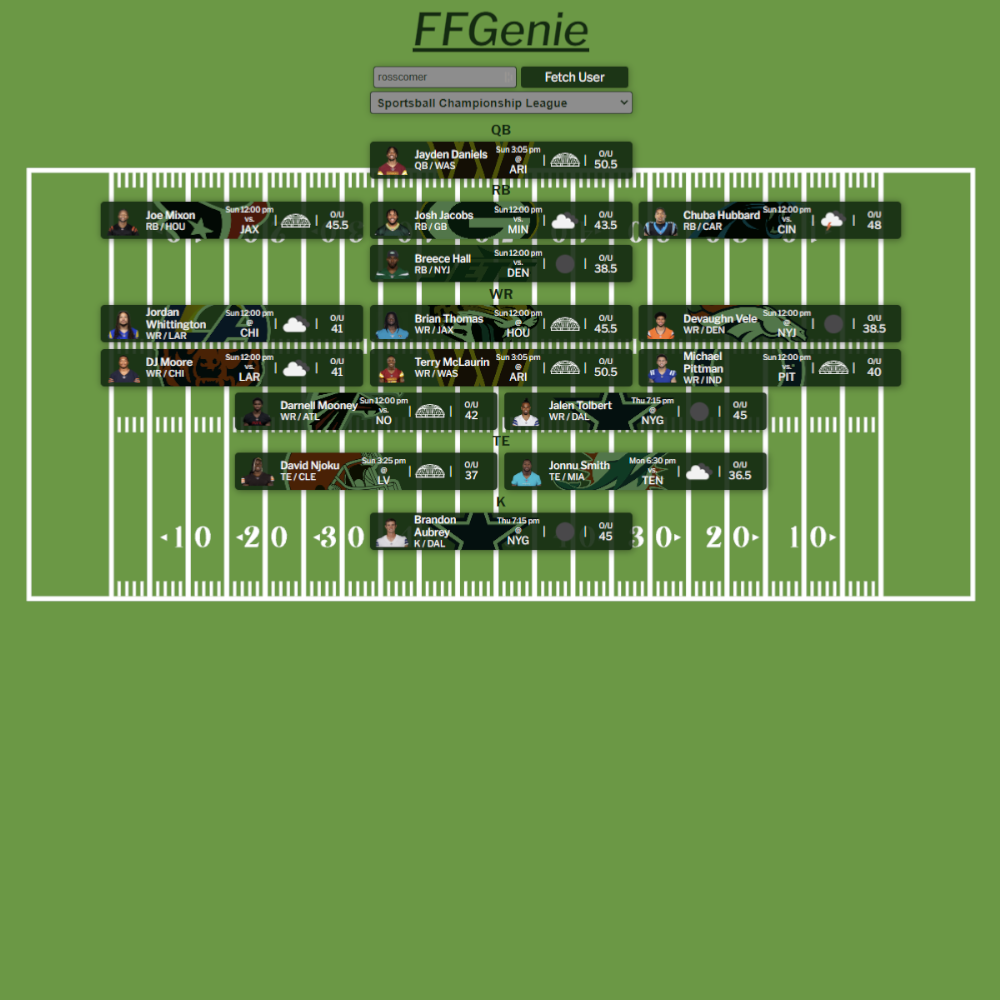
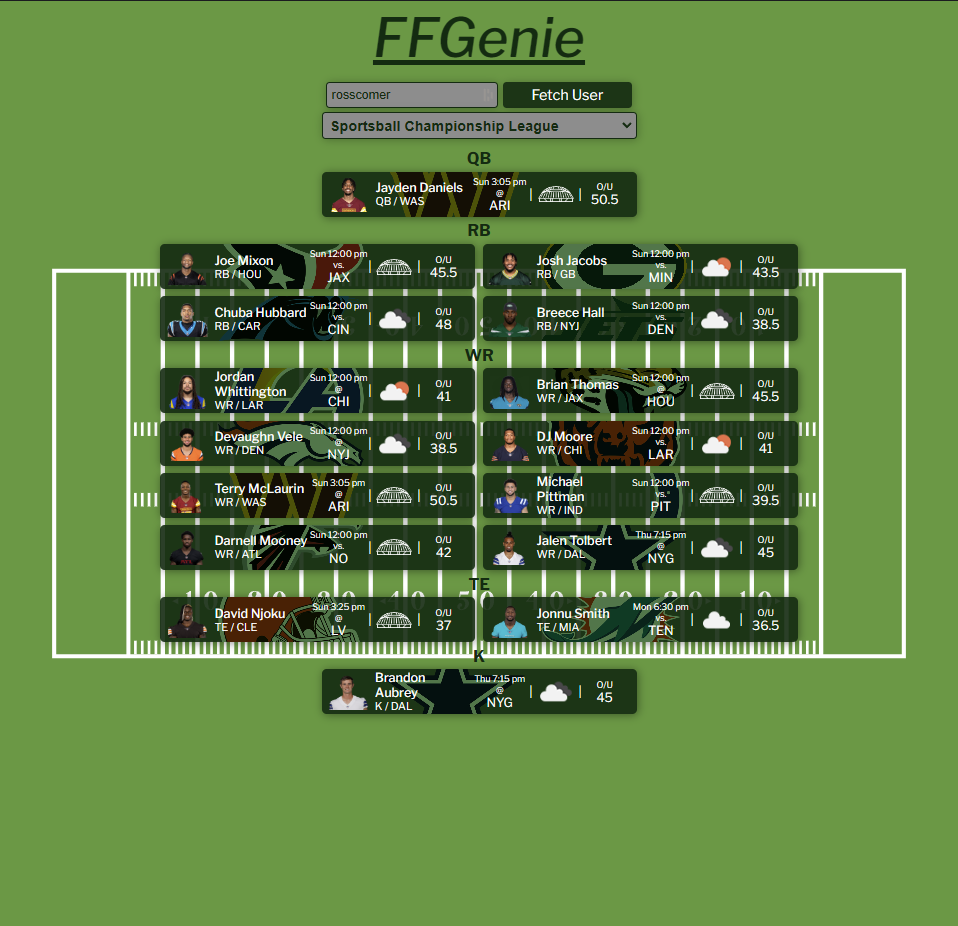
modify project images

diff --git a/src/components/Projects/Projects.css b/src/components/Projects/Projects.css
@@ -19,14 +19,6 @@
   align-items: center;
 }
 
-.projectDetails {
-  width: 85%;
-  top: 60%;
-  transform: translateY(5%);
-  position: relative;
-  margin-top: 10px;
-}
-
 .carousel-root {
   width: 100%;
   padding: 16px;
@@ -63,9 +55,10 @@
 }
 
 .projectSummary {
-  min-height: 40px;
-  padding: 10px;
+  height: 50px;
   box-sizing: border-box;
+  display:flex;
+  align-items: center;
 }
 
 .refLink {
@@ -120,6 +113,11 @@
 
 .control-arrow:hover {
   opacity: 1 !important;
+}
+
+.projectDetails {
+  width: 85%;
+  margin-top: 10px;
 }
 
 .thumbs-wrapper {

diff --git a/src/components/Projects/Projects.jsx b/src/components/Projects/Projects.jsx
@@ -3,7 +3,7 @@ import './Projects.css'
 import 'react-responsive-carousel/lib/styles/carousel.min.css'
 import trackstar from '../../images/trackstar2.png'
 import toerstore from '../../images/toerstore.png'
-import ffGenie from '../../images/FFGenie.png'
+import ffGenie from '../../images/FFGenie2.png'
 import { Carousel } from 'react-responsive-carousel'
 
 const Projects = () => {
